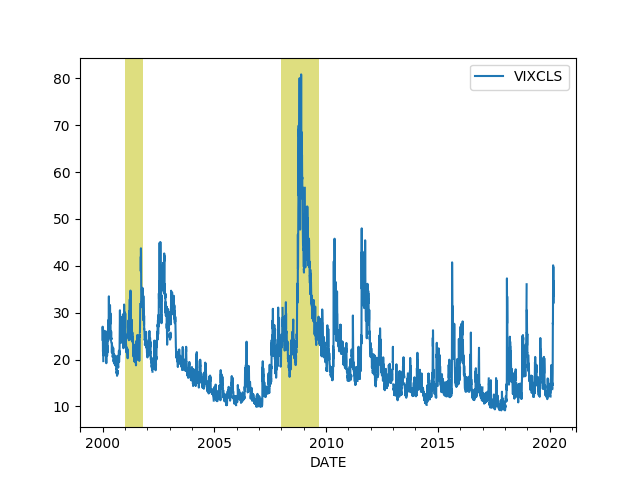
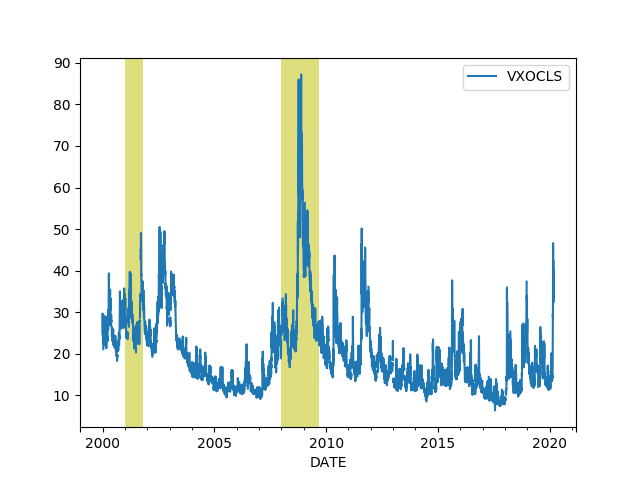
-

diff --git a/en/2019/05/stats.md b/en/2019/05/stats.md
@@ -552,7 +552,7 @@ from pandas_datareader import data
 today = datetime.datetime.now()
 start=datetime.datetime(2000, 1, 1)
 end=datetime.datetime(today.year, today.month, today.day)
-cols = ['VIXCLS']
+cols = ['VXOCLS']
 df = data.DataReader(cols, 'fred', start, end)
 df.plot()
 plt.axvspan('01-03-2001', '27-10-2001', color='y', alpha=0.5, lw=0)
@@ -562,13 +562,13 @@ plt.savefig('vix.png')
 ```
 
 ```text
-            VIXCLS
+            VXOCLS
 DATE              
-2020-02-28   40.11
-2020-03-02   33.42
-2020-03-03   36.82
-2020-03-04   31.99
-2020-03-05   39.62
+2020-02-28   46.60
+2020-03-02   33.14
+2020-03-03   40.13
+2020-03-04   32.29
+2020-03-05   42.33
 ```
 
 ![](vix.png)
